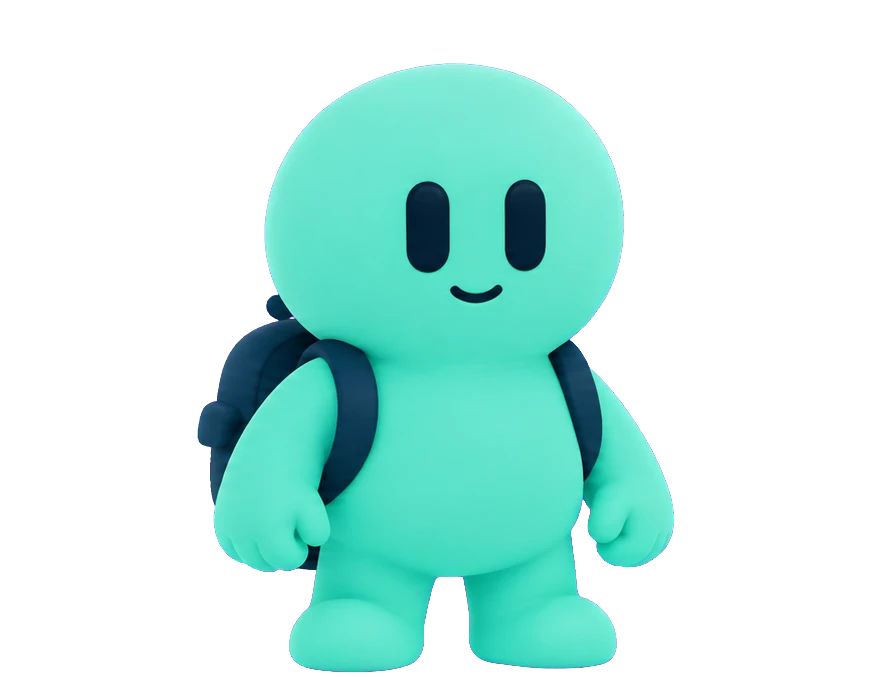
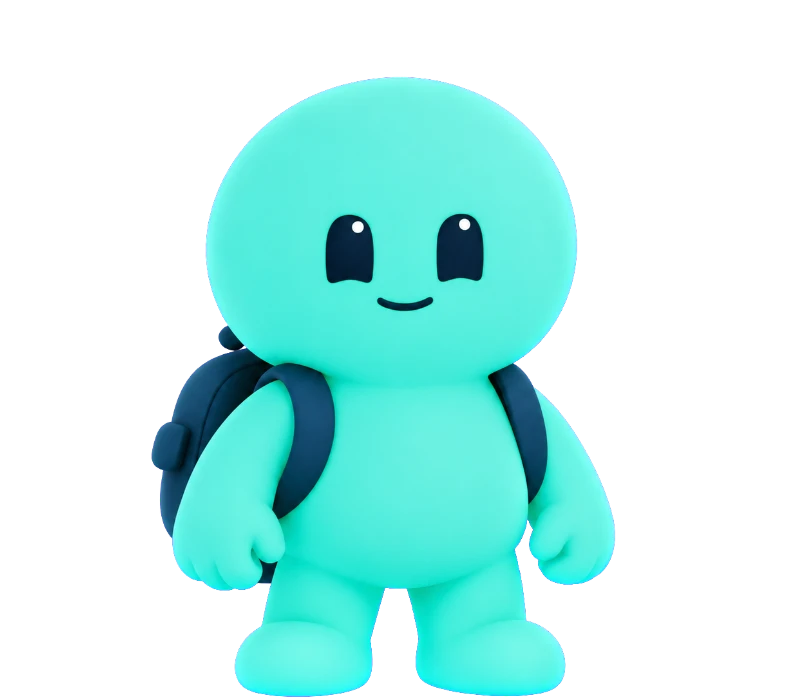
Buddy v2 : les 20 nouvelles poses (yeux plus vivants, menthe plus vive) + captures de l'accueil

diff --git a/public/shared.js b/public/shared.js
@@ -25,7 +25,7 @@ export const CATEGORIES = {
 // La "version" du code. Le serveur et la page la comparent : si elles sont différentes,
 // c'est que le serveur tourne encore avec un vieux code → la page demande de le redémarrer.
 // (À changer à chaque grosse modification.)
-export const APP_VERSION = "2026-09-30-jokers";
+export const APP_VERSION = "2026-09-30-buddy-v2";
 
 export const MAX_TASKS = 10;
 

diff --git a/PLAN.md b/PLAN.md
@@ -213,7 +213,7 @@ Known gotchas:
 - Chat bubble (FAB) always shows Buddy waving (`salut`), with a small wave every few seconds.
 - Free trial made obvious: "7 jours de Premium offerts" pill at the top of the home page (scrolls to the plans); Premium card headline "0 € pendant 7 jours" then "puis 9,99 €/mois"; Premium card first on phones.
 
-## Buddy v2 rebrand (decided 2026-09-30) — part 1 DONE (logo, colors, typography), part 2 waiting for the poses
+## Buddy v2 rebrand (decided 2026-09-30) — DONE (logo, colors, typography, 20 poses)
 - Owner's new references (sent in chat): **Buddy v2** = same mascot, livelier eyes (navy ovals with 2 white highlights), slightly more vivid mint. **New logo** = mint speech bubble with Buddy's face (same eyes + small smile) + "Buddy" wordmark in a rounded navy font with a smile-shaped underline (white on navy backgrounds). App icon = the bubble on a navy rounded square.
 - Rule: Buddy as a full character ONLY where he "lives" (banner, home hero, day timeline, guided tour). Everywhere else Buddy = the bubble: logo next to the name, app icon, favicon, chat header avatar next to "Buddy", the floating chat button (FAB).
 - Palette: mint + white + **navy** as a third strong color (app icon, wordmark, dark backgrounds, user message bubbles). Typography: rounded font for logo/titles (match on Google Fonts unless the owner gives the font name), simple readable UI font for text.
@@ -222,7 +222,7 @@ Known gotchas:
 - Colors in `style.css`: `--primary:#5fe2c3`, `--navy:#14284b`, `--mint:#e8f4f0`, `--on-accent` = navy (text on mint buttons is navy, not white). Buddy's chat bubbles = light mint + navy text; user's bubbles = navy + white text. Dark theme = navy backgrounds (#0d1b33 …).
 - Typography: **Nunito 800/900** (rounded) for the logo word and big titles, Plus Jakarta Sans for the rest. The "Buddy" word has a smile-shaped underline (CSS mask, color follows the text).
 - Landing screenshots (`public/images/app-*.jpg`) regenerated with the new look.
-- ⏳ **Part 2**: the 20 Buddy v2 poses (see list above) → replace `public/buddy/*.webp`, then regenerate the landing screenshots again.
+- ✅ **Part 2 done (2026-09-30)**: owner's images `design/buddy v2 01.png` … `21.png` (magenta background, one pose each) cut out into `public/buddy/*.webp` (shared frame 790x700, feet aligned, 29–59 KB each). Mapping: 01 repos, 02 salut, 03 bravo, 04 idee, 05 fache, 06 compassion, 07 ecoute, 08 inquiet, 09 encourage, 10 content, 11 fier, 12 reflechit, 14 relax, 15 triste, 16 scene-sport, 17 scene-voyages, 18 scene-etudes, 19 scene-finances, 20 scene-priere, 21 scene-quotidien. **13 (hiker with sleeping bag) not used** (spare, could replace scene-voyages). Desktop landing screenshots regenerated (phone ones only show the chat, unchanged).
 
 ## Marketing & next steps
-See CONTEXTE-MARKETING.md (summary of the Cowork conversation of 2026-09-27/28: carousels, launch plan, waitlist, PWA, Stripe, stores).
+Videos & reels plan: see **PLAN-MARKETING.md** (dedicated marketing conversation). Carousels & launch: see CONTEXTE-MARKETING.md (summary of the Cowork conversation of 2026-09-27/28: carousels, launch plan, waitlist, PWA, Stripe, stores).
